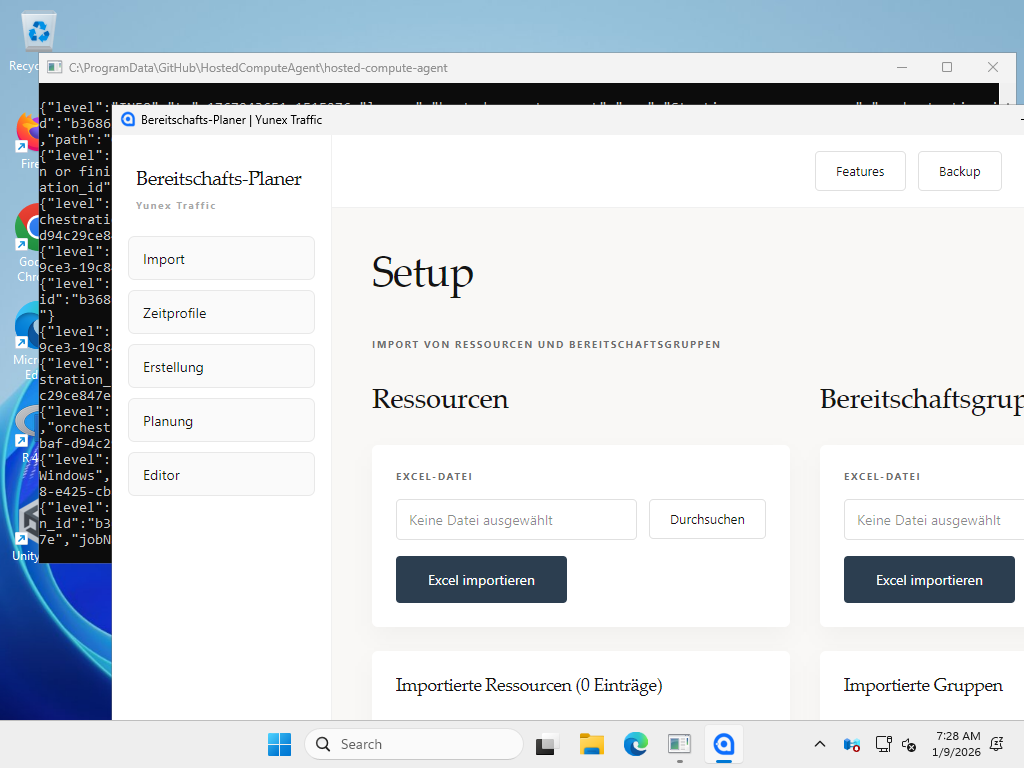
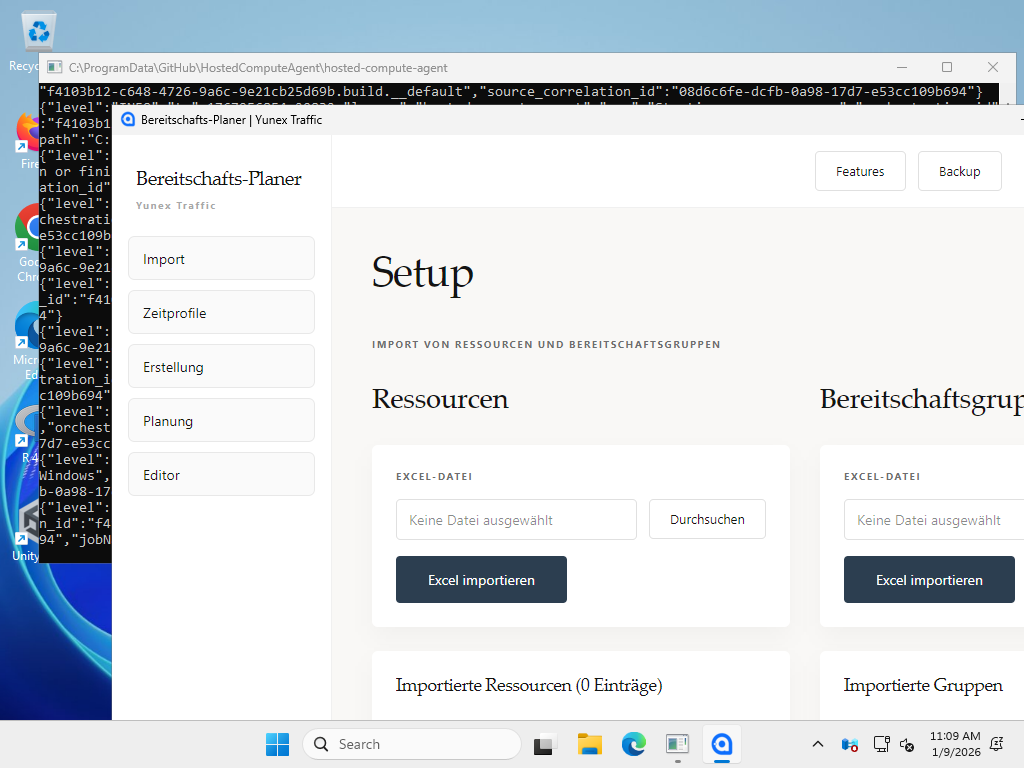
Add ultra-comprehensive debugging for DataGrid issues
**Problem:** DataGrids bleiben leer trotz korrekter ViewModels
- Logs zeigen: PreviewData.Count=6, Ressourcen.Count=6, aber keine Anzeige
- Benutzer sieht leere DataGrids in Preview UND im MainWindow

**Root Cause Analysis needed:**
1. Wird die Datenbank korrekt beschrieben?
2. Wird aus der Datenbank korrekt gelesen?
3. Werden PropertyChanged Events gefeuert?
4. Werden die DataGrid Bindings aufgerufen?

**Added comprehensive logging:**

**DatabaseService:**
- GetAllRessourcen: Count + First item details
- SaveRessourcen: Before/after counts, InsertBulk tracking
- GetAllBereitschaftsGruppen: Count + First item details
- SaveBereitschaftsGruppen: Before/after counts, InsertBulk tracking

**ImportPreviewViewModel:**
- PreviewData property GET: Logs every access
- PreviewData property SET: Logs every change
- Constructor: Added OnPropertyChanged(PreviewData) to force refresh

**MainWindowViewModel:**
- ImportExcel: Added OnPropertyChanged for Ressourcen, DataGridTitle, HasData
- ImportGruppen: Added OnPropertyChanged for BereitschaftsGruppen, HasGruppenData

**What this will show:**
1. DB write counts (before DeleteAll, after InsertBulk)
2. DB read counts + actual data samples
3. Every DataGrid binding access (GET calls)
4. All PropertyChanged notifications

**Next step:** Run app, check logs to see exact failure point

diff --git a/Services/Data/DatabaseService.cs b/Services/Data/DatabaseService.cs
@@ -30,9 +30,18 @@ public class DatabaseService
 
     public List<Ressource> GetAllRessourcen()
     {
+        Serilog.Log.Debug("DatabaseService.GetAllRessourcen: Started");
         using var db = new LiteDatabase(_dbPath);
         var collection = db.GetCollection<Ressource>("ressourcen");
-        return collection.FindAll().ToList();
+        var result = collection.FindAll().ToList();
+        Serilog.Log.Debug($"DatabaseService.GetAllRessourcen: Returning {result.Count} items from database");
+
+        if (result.Count > 0)
+        {
+            Serilog.Log.Debug($"DatabaseService.GetAllRessourcen: First item - Id={result[0].Id}, Name={result[0].Name}, Bezirk={result[0].Bezirk}");
+        }
+
+        return result;
     }
 
     public Ressource? GetRessourceById(int id)
@@ -70,17 +79,30 @@ public class DatabaseService
 
     public void SaveRessourcen(List<Ressource> ressourcen)
     {
+        Serilog.Log.Debug($"DatabaseService.SaveRessourcen: Starting to save {ressourcen.Count} items");
         using var db = new LiteDatabase(_dbPath);
         var collection = db.GetCollection<Ressource>("ressourcen");
-        collection.DeleteAll();
 
+        var countBefore = collection.Count();
+        Serilog.Log.Debug($"DatabaseService.SaveRessourcen: Count before DeleteAll = {countBefore}");
+
+        collection.DeleteAll();
+        Serilog.Log.Debug("DatabaseService.SaveRessourcen: DeleteAll completed");
+
+        int insertedCount = 0;
         foreach (var ressource in ressourcen)
         {
             ressource.CreatedAt = DateTime.Now;
             ressource.UpdatedAt = DateTime.Now;
+            insertedCount++;
         }
 
+        Serilog.Log.Debug($"DatabaseService.SaveRessourcen: About to insert {insertedCount} items");
         collection.InsertBulk(ressourcen);
+
+        var countAfter = collection.Count();
+        Serilog.Log.Debug($"DatabaseService.SaveRessourcen: Count after insert = {countAfter}");
+        Serilog.Log.Information($"DatabaseService.SaveRessourcen: Successfully saved {countAfter} items to database");
     }
 
     #endregion
@@ -89,9 +111,18 @@ public class DatabaseService
 
     public List<BereitschaftsGruppe> GetAllBereitschaftsGruppen()
     {
+        Serilog.Log.Debug("DatabaseService.GetAllBereitschaftsGruppen: Started");
         using var db = new LiteDatabase(_dbPath);
         var collection = db.GetCollection<BereitschaftsGruppe>("bereitschaftsgruppen");
-        return collection.FindAll().ToList();
+        var result = collection.FindAll().ToList();
+        Serilog.Log.Debug($"DatabaseService.GetAllBereitschaftsGruppen: Returning {result.Count} items from database");
+
+        if (result.Count > 0)
+        {
+            Serilog.Log.Debug($"DatabaseService.GetAllBereitschaftsGruppen: First item - Id={result[0].Id}, Name={result[0].Name}, Bezirk={result[0].Bezirk}");
+        }
+
+        return result;
     }
 
     public BereitschaftsGruppe? GetBereitschaftsGruppeById(int id)
@@ -129,17 +160,30 @@ public class DatabaseService
 
     public void SaveBereitschaftsGruppen(List<BereitschaftsGruppe> gruppen)
     {
+        Serilog.Log.Debug($"DatabaseService.SaveBereitschaftsGruppen: Starting to save {gruppen.Count} items");
         using var db = new LiteDatabase(_dbPath);
         var collection = db.GetCollection<BereitschaftsGruppe>("bereitschaftsgruppen");
-        collection.DeleteAll();
 
+        var countBefore = collection.Count();
+        Serilog.Log.Debug($"DatabaseService.SaveBereitschaftsGruppen: Count before DeleteAll = {countBefore}");
+
+        collection.DeleteAll();
+        Serilog.Log.Debug("DatabaseService.SaveBereitschaftsGruppen: DeleteAll completed");
+
+        int insertedCount = 0;
         foreach (var gruppe in gruppen)
         {
             gruppe.CreatedAt = DateTime.Now;
             gruppe.UpdatedAt = DateTime.Now;
+            insertedCount++;
         }
 
+        Serilog.Log.Debug($"DatabaseService.SaveBereitschaftsGruppen: About to insert {insertedCount} items");
         collection.InsertBulk(gruppen);
+
+        var countAfter = collection.Count();
+        Serilog.Log.Debug($"DatabaseService.SaveBereitschaftsGruppen: Count after insert = {countAfter}");
+        Serilog.Log.Information($"DatabaseService.SaveBereitschaftsGruppen: Successfully saved {countAfter} items to database");
     }
 
     #endregion

diff --git a/ViewModels/MainWindowViewModel.cs b/ViewModels/MainWindowViewModel.cs
@@ -193,8 +193,14 @@ public partial class MainWindowViewModel : ViewModelBase
             }
 
             HasData = Ressourcen.Count > 0;
+
+            // Force property changed notifications
+            OnPropertyChanged(nameof(Ressourcen));
             OnPropertyChanged(nameof(DataGridTitle));
+            OnPropertyChanged(nameof(HasData));
+
             Serilog.Log.Debug($"ImportExcel: UI updated. HasData={HasData}, Ressourcen.Count={Ressourcen.Count}");
+            Serilog.Log.Debug("ImportExcel: PropertyChanged notifications sent for Ressourcen, DataGridTitle, HasData");
 
             // Update settings with last import path
             _settingsService.UpdateSetting<BereitschaftsPlaner.Avalonia.Models.AppSettings>(s =>
@@ -329,7 +335,13 @@ public partial class MainWindowViewModel : ViewModelBase
             }
 
             HasGruppenData = BereitschaftsGruppen.Count > 0;
+
+            // Force property changed notifications
+            OnPropertyChanged(nameof(BereitschaftsGruppen));
+            OnPropertyChanged(nameof(HasGruppenData));
+
             Serilog.Log.Debug($"ImportGruppen: UI updated. HasGruppenData={HasGruppenData}, BereitschaftsGruppen.Count={BereitschaftsGruppen.Count}");
+            Serilog.Log.Debug("ImportGruppen: PropertyChanged notifications sent for BereitschaftsGruppen, HasGruppenData");
 
             // Clear file path after successful import
             GruppenFilePath = string.Empty;

diff --git a/ViewModels/ImportPreviewViewModel.cs b/ViewModels/ImportPreviewViewModel.cs
@@ -11,8 +11,21 @@ public partial class ImportPreviewViewModel : ViewModelBase
 {
     public event Action<bool>? DialogResultRequested;
 
-    [ObservableProperty]
     private ObservableCollection<object> _previewData = new();
+
+    public ObservableCollection<object> PreviewData
+    {
+        get
+        {
+            Serilog.Log.Debug($"ImportPreviewViewModel.PreviewData GET: Count={_previewData.Count}");
+            return _previewData;
+        }
+        set
+        {
+            Serilog.Log.Debug($"ImportPreviewViewModel.PreviewData SET: NewCount={value?.Count ?? 0}");
+            SetProperty(ref _previewData, value);
+        }
+    }
 
     [ObservableProperty]
     private string _statusMessage = string.Empty;
@@ -54,6 +67,10 @@ public partial class ImportPreviewViewModel : ViewModelBase
         }
 
         Serilog.Log.Debug($"ImportPreviewViewModel: PreviewData.Count = {PreviewData.Count}");
+
+        // Force property changed notification to ensure DataGrid refreshes
+        OnPropertyChanged(nameof(PreviewData));
+        Serilog.Log.Debug("ImportPreviewViewModel: PropertyChanged notification sent for PreviewData");
 
         // Set status based on validation
         if (validationResult != null)
